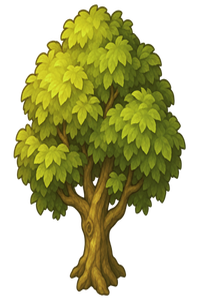
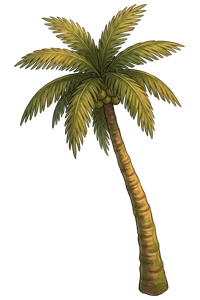
Replace the palm stand-in with SpriteCook art
The narrowed-oak stand-in becomes a generated palm (SpriteCook,
gemini-nano-banana-2.1, transparent, with the character idle sheet as the
style guide). Its trunk leans, so its base sits right of centre: origin
[0.765, 0.982] and a smaller footprint of [15, 12]. The prompt and settings
are recorded beside it and in the generation manifest.

diff --git a/docs/art-direction.md b/docs/art-direction.md
@@ -11,7 +11,7 @@ The first screen uses parchment, forest-green ink, large serif typography, and t
 | `assets/world/starting-regions.png` | Three portrait backgrounds, sliced at render time with CSS |
 | `assets/world/wildhaven.png` | Archived original world painting; no longer the playable map |
 | `assets/world/source/ground/{grass,dirt,sand,water}.png` | Four independently generated repeating ground textures (`snow`, `rock` and `jungle` beside them are stand-ins) |
-| `assets/world/source/objects/<kind>/*.png` | Sixteen independently generated transparent world sprites plus stand-ins, in kind folders: `trees/`, `plants/`, `rocks/`, `buildings/`, `props/` |
+| `assets/world/source/objects/<kind>/*.png` | Sixteen independently generated transparent world sprites, the SpriteCook palm, plus stand-ins, in kind folders: `trees/`, `plants/`, `rocks/`, `buildings/`, `props/` |
 | `assets/world/source/objects.json` | Each sprite's kind folder, ground-contact origin and solid base footprint |
 | `assets/world/map/` | Built terrain atlas, Tiled JSON, and minimap overview |
 
@@ -55,9 +55,12 @@ Made by `tools/make-biome-standins.py` from existing art, so the 384×256 world 
 | `objects/rocks/cliff-rock.png` | rocks-a, stretched taller, dark grey | Canyon outcrops and lookouts |
 | `objects/trees/jungle-tree.png` | big-oak, deep green | Jungle trees |
 | `objects/plants/fern.png` | berry-bush, green | Jungle undergrowth (walk-through) |
-| `objects/trees/palm.png` | oak, narrowed, yellow-green | Lagoon and jungle (weakest stand-in) |
 | `objects/plants/dead-bush.png` | berry-bush, brown | Desert and canyons |
 | `objects/plants/cactus.png` | drawn from rounded rectangles | Desert |
 | `objects/buildings/sandstone-ruin.png` | drawn from rectangles | Desert ruins, jungle temple |
 | `objects/props/bridge.png` | drawn plank deck (flat) | River bridges |
 | `objects/props/signpost.png` | drawn post and arrow board | Fast-travel signposts |
+
+### Replaced stand-ins
+
+- `objects/trees/palm.png` (lagoon and jungle) was the weakest stand-in: an oak, narrowed and tinted. On 2026-11-19 it was replaced with real art generated by **SpriteCook** (Claude plugin, model `gemini-nano-banana-2.1`, HD, transparent background), with `starting-characters-idle-v1.png` uploaded as the style guide image. The full-size result is in `source/originals/trees/palm.png`; the game sprite is cropped to its alpha bounds and fitted into 200×300 with 4 px padding. Its trunk leans so the base sits right of centre, so its `origin` is `[0.765, 0.982]` and its `footprint` `[15, 12]`. The prompt and settings are in `palm.prompt.txt` and `source/generation-manifest.json`. `tools/make-biome-standins.py` still lists the palm but skips it because the file exists. SpriteCook's Free plan made this image public in its gallery.

diff --git a/docs/verification.md b/docs/verification.md
@@ -172,3 +172,15 @@ Ground textures moved to `assets/world/source/ground/`; object sprites to `objec
 Browser at `http://127.0.0.1:5178` (1280×720), Builder in Hollowstead: all 29 sprites loaded from their kind folders (buildings 7, plants 5, props 4, rocks 6, trees 7); houses, workshop, boulder, log and berry bush drew as before; no console errors.
 
 Not checked by hand: the field journal's keepsake pictures (they use the same `objectUrls` names, which did not change).
+
+## SpriteCook palm replaces the palm stand-in — 2026-11-19
+
+The palm stand-in (a narrowed oak) was replaced with one image from the SpriteCook Claude plugin (`gemini-nano-banana-2.1`, HD, transparent background, with `starting-characters-idle-v1.png` uploaded as the style guide; 12 credits). The cutout came back clean: alpha is 0 outside the tree. The sprite was cropped to its alpha > 40 bounds and fitted into 200×300 with 4 px padding. Its trunk base sits at x 153 of 200, so `objects.json` now gives the palm `origin` `[0.765, 0.982]` and `footprint` `[15, 12]`. `python tools/build-map.py` rebuilt the map: only `overview.webp` changed, because palm positions and names did not. Automated: `npm test` 63 passing, `npm run build` and `npm run format:check` pass.
+
+Browser at `http://127.0.0.1:5179` (1024×768, hidden pane), test survivor save (the old version-2 survivor save there was backed up and restored afterwards):
+- Driftwood Lagoon, next to the two palms west of the Driftwood Signpost: both palms draw with the trunk base on their map point and the crown leaning left, sized like the other trees.
+- Emerald Jungle, after signpost travel to Jungle Gate (the travel button's own click handler): the palm west of the signpost draws the same way.
+- `isWalkable` around the palm at (20485, 9518): blocked from x −20 to +20 and y −20 to +5 around the trunk base (footprint plus the player's body); open ground under the crown, where the old centred origin would have put the base.
+- No console errors.
+
+Not checked by hand: walking into a palm with the keyboard (the hidden pane ran at a low frame rate), and the 390 px layout (no layout changed).
